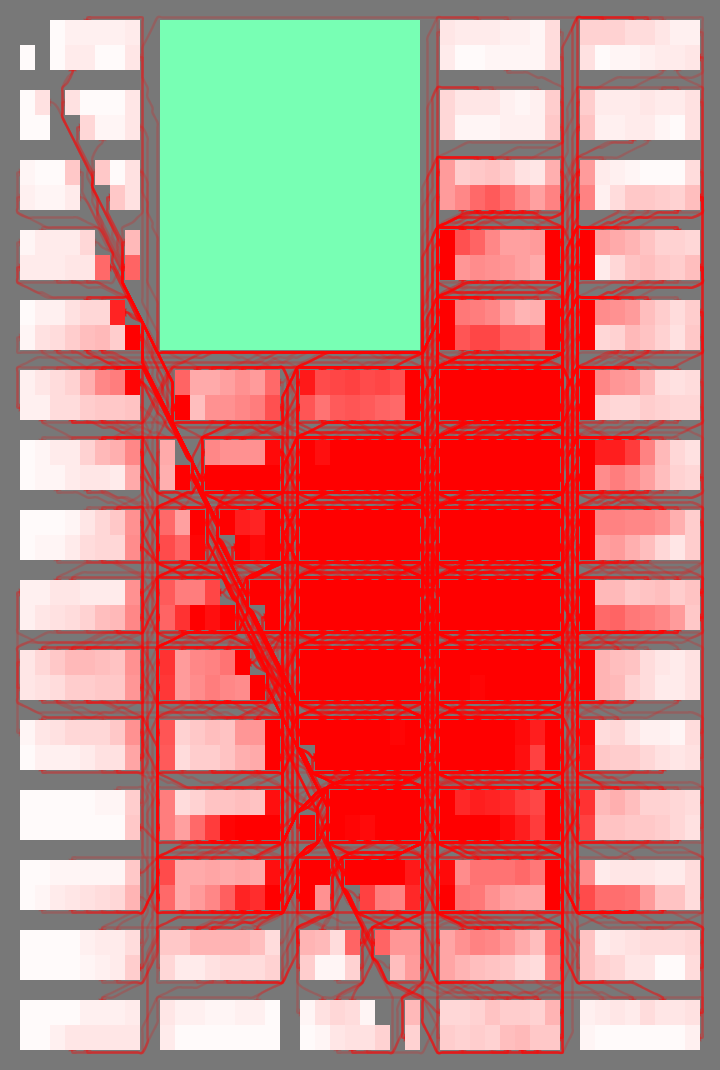
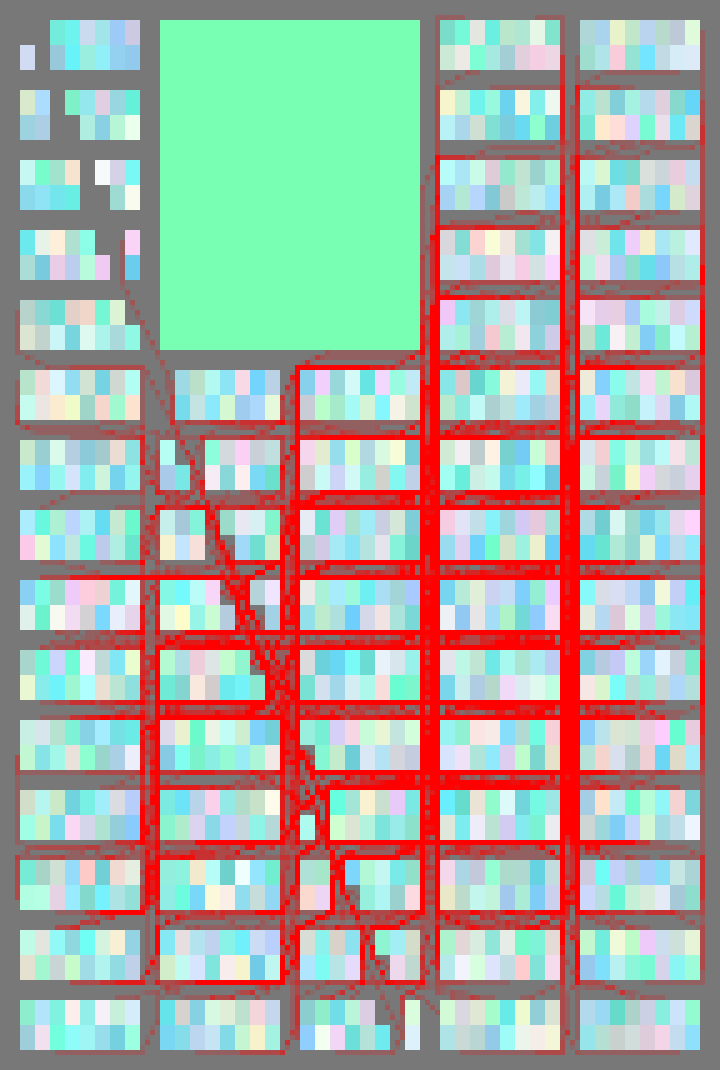
interface mode

diff --git a/code/utils.js b/code/utils.js
@@ -12,114 +12,8 @@ function weightedRandom(arr, weightAttribute) {
   }
 }
 
-
-
-
 let routes = [];
 let routesNr = 0;
-
-// function pathfinding(start, end) {
-//   let closeSet = [];
-//   tileReset();
-//   start.g = 0;
-//   let openSet = [];
-//   openSet.push(start);
-//   let current = start;
-//   let route = [];
-
-//   while (current != end) {
-//       if (openSet.length === 0) {
-//           console.log("No valid path found");
-//           return;
-//       }
-//       openSet.sort((a, b) => (a.f > b.f ? 1 : -1));
-//       current = openSet[0];
-//       closeSet.push(current);
-//       openSet.splice(0, 1);
-//       let neighbors = current.neighbors.slice();
-//       let knightMoves = [
-//           {i: 2, j: 1},
-//           {i: 1, j: 2},
-//           {i: -2, j: -1},
-//           {i: -1, j: -2},
-//           {i: 2, j: -1},
-//           {i: 1, j: -2},
-//           {i: -2, j: 1},
-//           {i: -1, j: 2},
-//       ];
-
-//       for (let move of knightMoves) {
-//         let ni = current.i + move.i;
-//         let nj = current.j + move.j;
-  
-//         if (ni >= 0 && nj >= 0 && ni < cols && nj < rows) {
-//           neighbors.push(grid[ni][nj]);
-//         }
-//       }
-
-//       for (let neighbor of neighbors) {
-//         if (closeSet.includes(neighbor) === false && neighbor.wall === false &&
-//             !isWallInBetween(current, neighbor)) {
-          
-//           neighbor.h = dist(neighbor.i, neighbor.j, end.i, end.j);
-//           let g = current.g + dist(neighbor.i, neighbor.j, current.i, current.j);
-  
-//                   if (g < neighbor.g) {
-//                       neighbor.from = current;
-//                       neighbor.g = g;
-//                       neighbor.f = neighbor.g + neighbor.h;
-//                   }
-
-//                   if (openSet.includes(neighbor) == false) {
-//                       openSet.push(neighbor);
-//                   }
-//               }
-//           }
-//       }
-//     if (current == end) {
-
-//     let previous = end;
-
-//     while (previous.from != null) {
-//       route.push(previous);
-//       //check if knight move
-//       if (abs(previous.i - previous.from.i) + abs(previous.j - previous.from.j) === 3) {
-//           // the two tiles in between's traffic also increases 0.5
-//           let di = previous.i - previous.from.i;
-//           let dj = previous.j - previous.from.j;
-  
-//           let midTile1, midTile2;
-  
-//           if (abs(di) == 2) { // Moved 2 tiles in i direction
-//               midTile1 = grid[previous.from.i + sign(di)][previous.from.j];
-//               midTile2 = grid[previous.from.i + 2*sign(di)][previous.from.j + sign(dj)];
-//           } else { // Moved 2 tiles in j direction
-//               midTile1 = grid[previous.from.i][previous.from.j + sign(dj)];
-//               midTile2 = grid[previous.from.i + sign(di)][previous.from.j + 2*sign(dj)];
-//           }
-  
-//           midTile1.traffic += 0.5;
-//           midTile2.traffic += 0.5;
-//       } else if (abs(previous.i - previous.from.i) + abs(previous.j - previous.from.j) === 2){
-//         //diagonal tile traffic increases 0.3
-//         let di = previous.i - previous.from.i;
-//         let dj = previous.j - previous.from.j;
-//         let midTile = grid[previous.from.i + sign(di)][previous.from.j + sign(dj)];
-//         midTile.traffic += 0.3;
-//       }
-//       previous = previous.from;
-//       previous.traffic++;
-//   }
-//     route.push(start);
-//     routes.push(route);
-
-//     drawARoute(route);
-//   }
-//   routesNr++;
-
-//   gridMap = creategridMap(parcels, cellSize);
-//   const influencedParcels = findInfluencedParcels(route, gridMap, influenceDiameter, cellSize);
-// }
 
 function sign(x) {
   return (x > 0) - (x < 0);
@@ -127,17 +21,14 @@ function sign(x) {
 
 function drawARoute(route){
   colorMode(RGB);
-  beginShape();
   noFill();
-
-  strokeWeight(res/2);
   stroke(255, 50, 0, 100);
-  // stroke(255,100)
+  beginShape();
+  strokeWeight(res/2);
   vertex(route[0].x, route[0].y);
   for (let step = 0; step < route.length; step++) {
     curveVertex(route[step].x, route[step].y);
   }
-
   vertex(route[route.length - 1].x, route[route.length - 1].y);
   endShape();
 }

diff --git a/index.html b/index.html
@@ -11,9 +11,13 @@
 
 <body>
   <h1>Grids - Their Traffic Patterns and Erosion</h1>
+  <p>Richard Qian Li, 2023</p>
 
 
-    
+    <img src="img/02.png" style="height: 300px;">
+    <img src="img/01.png" style="height: 300px;">
+    <img src="img/03.png" style="height: 300px;">
+
 
 
     <p>The study deals with two problems:</p>
@@ -29,7 +33,7 @@
     <a href="scenes.html?scene=lucca">Lucca Type</a>- Roman Age camp city with regular blocks and some open space.<br></span>
     
     <h3 id="installation">Installation and Usage</h3>
-    <p>No installation is required. The application is hosted on GitHub Pages at <a href="https://ludwigpeking.github.io/ManhattanStreetsProject/">https://ludwigpeking.github.io/ManhattanStreetsProject/</a>. 
+    <p>No installation is required. The code is hosted on GitHub Pages at <a href="https://github.com/ludwigpeking/grid-erosion.git/">https://github.com/ludwigpeking/grid-erosion.git</a>. 
     p5*js library is used in the project. The library is included in the project. The application can be run by opening the `index.html` file in a web browser.
     From the index page, users have access to the scenes and descriptions.<br>
     <h3>Parameters of the grid that can be changed in the scenes:</h3>
@@ -63,6 +67,13 @@
     <li> Properties claim space from open space of no owner</li>
   </ul>
   </p>
+  <img src="img/06.png" style="height: 300px;">
+  <img src="img/07.png" style="height: 300px;">
+  <img src="img/08.png" style="height: 300px;">
+  <img src="img/09.png" style="height: 300px;">
+  <img src="img/10.png" style="height: 300px;">
+  <img src="img/11.png" style="height: 300px;">
+
   <h3> The Author </h3>
     
   <p>The author is Richard Qian Li, an architect and urban designer who now resides in Beijing with his family.<br>

diff --git a/code/buttons.js b/code/buttons.js
@@ -125,12 +125,12 @@ function buttons() {
 
 
         { label: 'Destroy 20% Random Parcels', gridPosition: {i: 0, j: 1}, mousePressed: destroyRandomParcels },
-        { label: 'Destroy 20% Low Prosperity Parcels', gridPosition: {i: 1, j: 1}, mousePressed: destoryParcelsLowProsper },
+        { label: 'Destroy 10% Low Prosperity Parcels', gridPosition: {i: 1, j: 1}, mousePressed: destoryParcelsLowProsper },
         { label: 'Reduce Prosperity of All Parcels by 50%', gridPosition: {i: 2, j: 1}, mousePressed: destoryParcelsHalfProsper },
         { label: 'Traffic Decline 50%', gridPosition: {i: 3, j: 1}, mousePressed: trafficDecline },
 
-        { label: 'Make an Informal Parcel', gridPosition: {i: 0, j: 2}, mousePressed: spawnOneParcel },
-        { label: 'Claim a Tile', gridPosition: {i: 1, j: 2}, mousePressed: parcelClaimOneTile },
+        { label: 'Make Informal Parcels', gridPosition: {i: 0, j: 2}, mousePressed: spawnOneParcel },
+        { label: 'Claim Tiles', gridPosition: {i: 1, j: 2}, mousePressed: parcelClaimOneTile },
 
         { label: 'Traffic Clear', gridPosition: {i: 0, j: 3}, mousePressed: trafficClear },
         { label: 'Reset to Default Parameters', gridPosition: {i: 1, j: 3}, mousePressed: resetParameters },

diff --git a/code/events.js b/code/events.js
@@ -8,9 +8,10 @@ function claimVacantParcel() {
 }
 //spawn a parcel on a random vacant tile belong to the open space, where tile's traffic value is smaller than 2
 function spawnOneParcel(){
-  let highTiles = getHighTrafficTiles(round(parcels.length * 0.1));
+  let highTiles = getHighTrafficTiles(round(parcels.length * 0.5));
+  console.log(highTiles.length);
     for (let tile of highTiles) {
-      if (tile.owner == openSpace) {
+      if (tile.owner == openSpace && random()<0.1) {
         tile.owner = new SpawnedParcel(tile.i, tile.j);
         parcels.push(tile.owner);
         tile.owner.show();
@@ -111,9 +112,8 @@ function destroyRandomParcels() {
   gridMap = creategridMap(parcels, cellSize)
   refreshTileOfRemovedParcels()
   redrawParcels();
-  for (let route of routes){
-    drawARoute(route);
-}}
+  routes = [];
+}
 
 function destoryParcelsLowProsper(){
   //sort the parcels by prosperity descending

diff --git a/code/tile.js b/code/tile.js
@@ -54,7 +54,7 @@ class Tile {
     if (this.i < cols - 1 && this.j < rows - 1) 
       this.neighbors.push(grid[this.i + 1][this.j + 1]);
   }
-  surroundingTraffic() {
+  testSurroundingTraffic() {
     let sum = 0;
     for (let neighbor of this.neighbors) {
       sum += neighbor.traffic;
@@ -152,7 +152,7 @@ function getHighTrafficTiles(numberToSpawn) {
   for (let i = 0; i < cols; i++) {
       for (let j = 0; j < rows; j++) {
           let tile = grid[i][j];
-          tile.surroundingTraffic(); // Update surrounding traffic value
+          tile.testSurroundingTraffic(); // Update surrounding traffic value
           
           if (tile.owner === openSpace && !tile.isAdjacentToAccessPoint()) {
               allTiles.push(tile);

diff --git a/README.md b/README.md
@@ -1,37 +1,74 @@
-# Manhattan Streets Project
+# Grids - Their Traffic Patterns and Erosion
 
-This project is a JavaScript application that generates a map of Manhattan streets. It uses data from the New York City Open Data portal to create a visualization of the street grid.
+**Richard Qian Li, 2023**
 
-## Table of Contents
-
-- [Installation and Usage](#installation)
-- [Description](#description)
-- [Contributing](#contributing)
-- [License](#license)
-
-## Installation and Usage
-
-No installation is required. The application is hosted on GitHub Pages at https://ludwigpeking.github.io/ManhattanStreetsProject/. 
-p5*js library is used in the project. The library is included in the project. The application can be run by opening the `index.html` file in a web browser.
-from index page, the user has the access to the scenes and descriptions.
-
-## Description
+![Image](img/02.png)
+![Image](img/01.png)
+![Image](img/03.png)
 
 The study deals with two problems:
-### The Traffic Pattern in the Grids
-Firstly, it simulates the spontaneous traffic patterns emerging within the grid, the value creation and growth patterns that arise in response to the spantaneous movements of inhabitants. 
-### The Erosion of the Grids
+
+### 1. The Traffic Pattern in the Grids
+
+Firstly, it simulates the spontaneous traffic patterns emerging within the grid, the value creation and growth patterns that arise in response to the spontaneous movements of inhabitants.
+
+### 2. The Erosion of the Grids
+
 Secondly, it delves into the grid's deterioration due to factors such as economic downturns or sociopolitical upheavals, highlighting the subsequent movement reorganization. Notably, informal occupations following these disturbances play a pivotal role in reshaping the city.
 
-## Contributing
+- [New York Type](scenes.html?scene=newYork) - long blocks with variation of large park and some diagonal street.
+- [Portland Type](scenes.html?scene=portland) - square blocks with linear parks and small squares.
+- [Lucca Type](scenes.html?scene=lucca) - Roman Age camp city with regular blocks and some open space.
 
-The author is Richard Qian Li, an architect and urban designer who now resides in Beijing with his family. 
+### Installation and Usage
 
+No installation is required. The code is hosted on GitHub Pages at [https://github.com/ludwigpeking/grid-erosion.git/](https://github.com/ludwigpeking/grid-erosion.git/). 
+p5*js library is used in the project. The library is included in the project. The application can be run by opening the `index.html` file in a web browser.
+From the index page, users have access to the scenes and descriptions.
 
-## License
+### Parameters of the grid that can be changed in the scenes:
+
+- Street Count: Number of streets (integer)
+- Avenue Count: Number of avenues (integer)
+- Street Width: Width of the streets (integer)
+- Block Parcel Count: Number of parcels in a block (integer)
+- Parcel Width: Width of a parcel (integer)
+- Parcel Depth: Depth of a parcel (integer)
+- Res: the resolution or the size of the tile that affects only viewing
+
+### Growth events
+
+- Add traffic and create prosperity to the grid
+
+### Decline events
+
+- Parcels destroyed randomly
+- Parcels with low prosperity becomes vacant
+- Overall prosperity declines 
+- Overall traffic volume declines 
+
+### Claimation events - spontaneous growth after the age of turmoil
+
+- New users spawning at desirable location
+- Properties claim space from open space of no owner
+
+![Image](img/06.png)
+![Image](img/07.png)
+![Image](img/08.png)
+![Image](img/09.png)
+![Image](img/10.png)
+![Image](img/11.png)
+
+### The Author
+
+The author is Richard Qian Li, an architect and urban designer who now resides in Beijing with his family.
+Contact: ludwig.peking@gmail.com
+
+### License
 
 MIT License
-Copyright (c) [2023] [Richard Qian Li] [ludwig.peking@gmail.com]
+
+Copyright (c) 2023, Richard Qian Li.
 
 Permission is hereby granted, free of charge, to any person obtaining a copy of this software and associated documentation files (the "Software"), to deal in the Software without restriction, including without limitation the rights to use, copy, modify, merge, publish, distribute, sublicense, and/or sell copies of the Software, and to permit persons to whom the Software is furnished to do so, subject to the following conditions:
 
